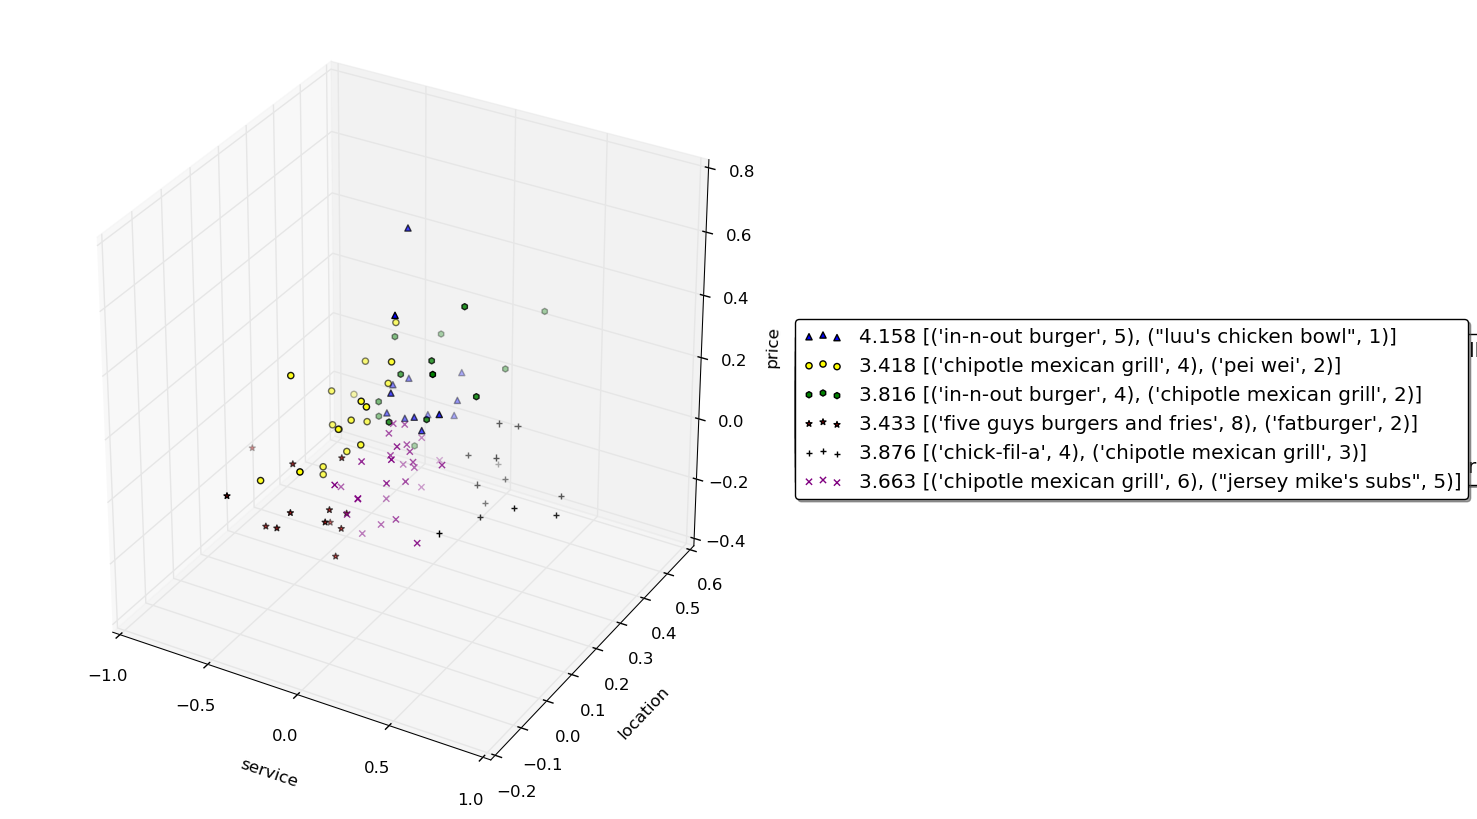
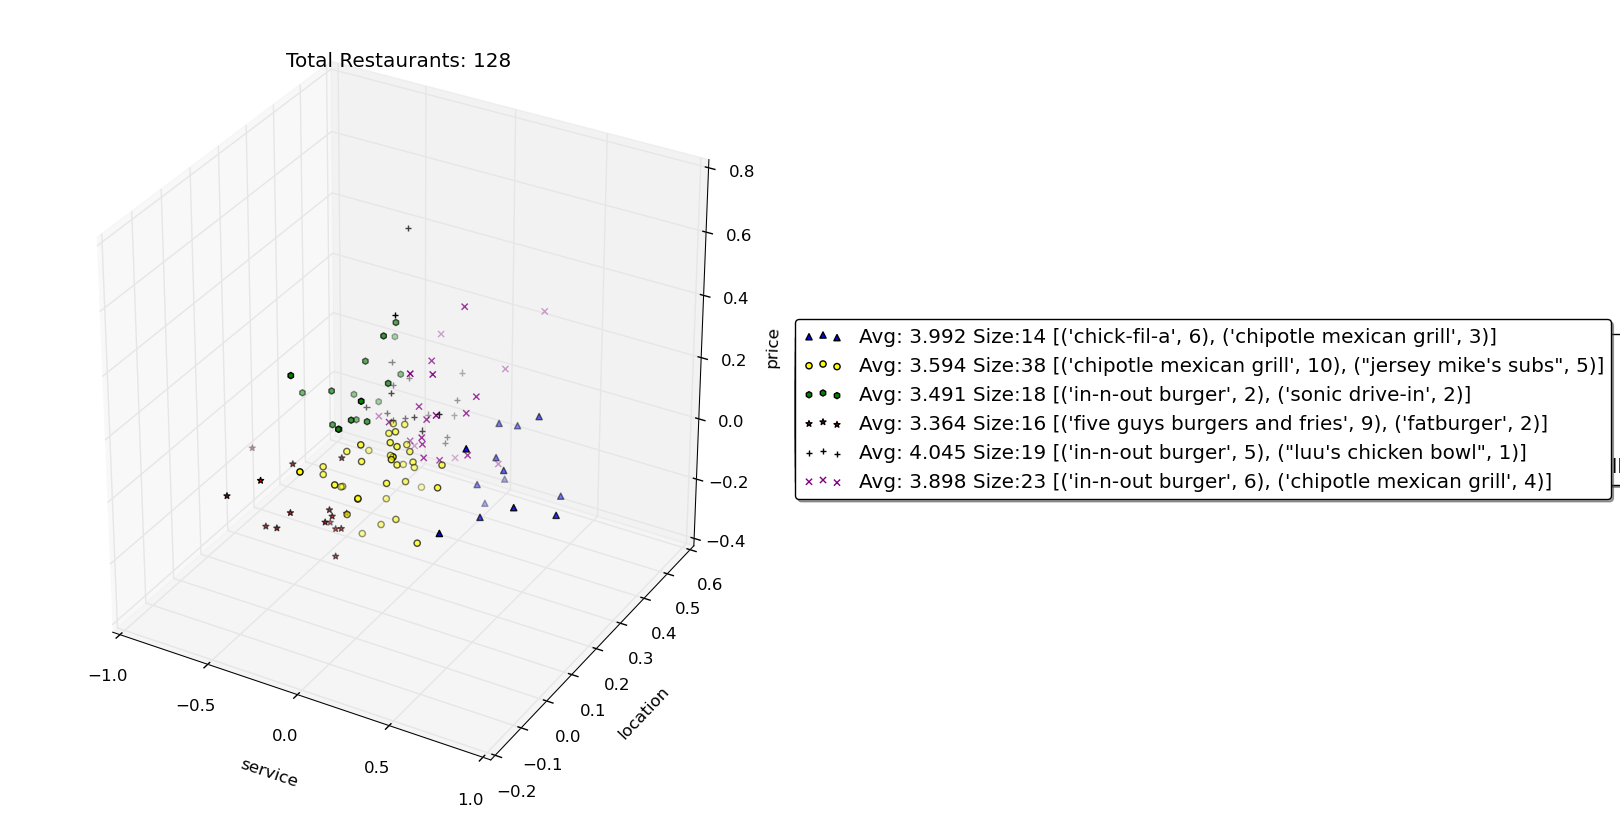
adding title

diff --git a/python/scripts/cluster.py b/python/scripts/cluster.py
@@ -31,7 +31,7 @@ X_test = [x[1:] for x in X_test_all]
 labels = ['^', 'o', 'h', '*', '+' ,'x', 's', 'p', 'D', '<', '>', 'v']
 colors = ["blue", "yellow", "green", "red", "black", "purple", "orange", "grey", "teal", "tan"]
 
-for size in range(2,5):
+for size in range(2,10):
     # Fit the training data to clusters
     c = cluster.SpectralClustering(n_clusters=size)
     c.fit(X_train)
@@ -42,6 +42,7 @@ for size in range(2,5):
     ax.set_xlabel("service")
     ax.set_ylabel("location")
     ax.set_zlabel("price")
+    ax.set_title("Total Restaurants: " + str(len(X_train)))
     
     # Gather our data to be potted
     all_data = zip(c.labels_, X_train, Y_train, X_train_names)
@@ -63,7 +64,7 @@ for size in range(2,5):
         Y = map(lambda x: x[1], X_s)
         Z = map(lambda x: x[2], X_s)
         mostCommonNames = Counter( [point["name"].lower() for point in c] ).most_common(2)
-        Label = str(round(np.average(Y_s),3)) + " " + str(mostCommonNames)
+        Label = str("Avg: " + str(round(np.average(Y_s),3))) + " Size:" + str(len(c)) + " " + str(mostCommonNames)
         ax.scatter( X, Y, Z, marker=labels[cluster_label], c=colors[cluster_label], label=Label)
      
     # Put legend to the right of graph
